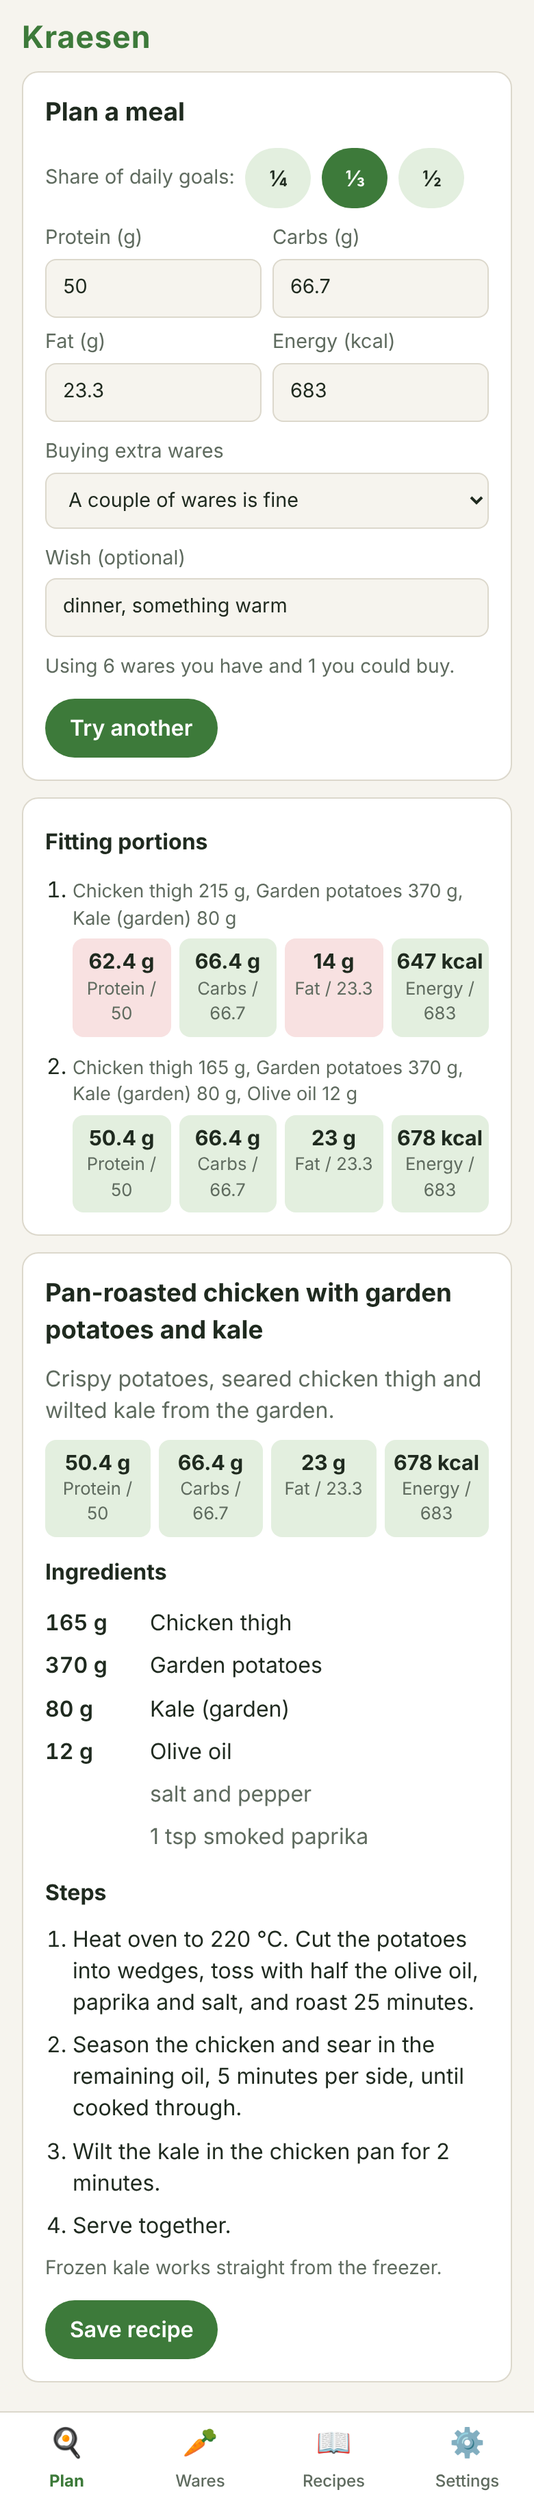
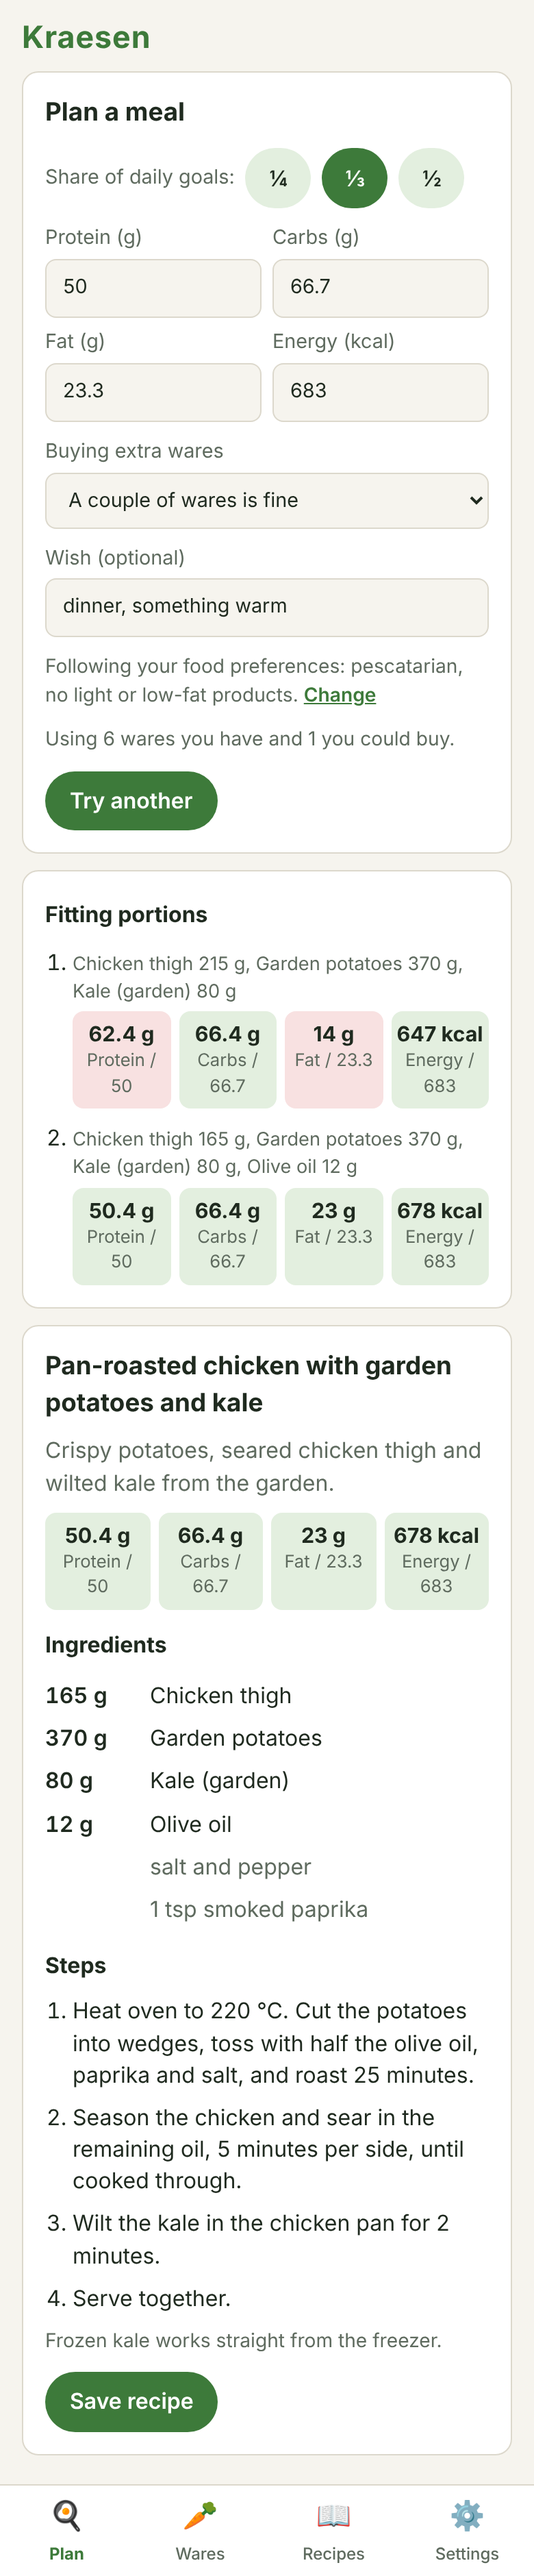
fix: address the food preferences review
- Plan shows the saved food preferences with a link to change them.
- Textareas resize only vertically, so the page never scrolls sideways.
- Settings maps a profile to its form in one place (formFrom).
- README mentions food preferences; shorter doc comment.
- Tests for trimmed and blank preferences, split in two.

Claude-Session: https://claude.ai/code/session_01NExJTuMKn94z8RMGD2mQMk

diff --git a/src/components/SettingsPage.tsx b/src/components/SettingsPage.tsx
@@ -1,7 +1,7 @@
 import { useRef, useState } from 'react'
 import { exportJson, importJson } from '../persist'
 import { useStore } from '../store'
-import { DEFAULT_MODEL, type Macros } from '../types'
+import { DEFAULT_MODEL, type Macros, type Profile } from '../types'
 import { MacroInputs } from './MacroInputs'
 
 const MODELS = [
@@ -9,13 +9,23 @@ const MODELS = [
   { id: 'claude-sonnet-5-5', label: 'Claude Sonnet 5.5 (cheaper)' },
 ]
 
+const DEFAULT_GOALS: Macros = { protein: 140, carbs: 220, fat: 70, kcal: 2100 }
+
+/** The profile form's fields for a stored profile, or the defaults when there is none. */
+const formFrom = (p: Profile | null) => ({
+  name: p?.name ?? '',
+  goals: p?.dailyGoals ?? DEFAULT_GOALS,
+  preferences: p?.foodPreferences ?? '',
+})
+
 export function SettingsPage() {
   const { state, update, replace } = useStore()
-  const [goals, setGoals] = useState<Macros>(
-    state.profile?.dailyGoals ?? { protein: 140, carbs: 220, fat: 70, kcal: 2100 },
-  )
-  const [name, setName] = useState(state.profile?.name ?? '')
-  const [preferences, setPreferences] = useState(state.profile?.foodPreferences ?? '')
+  const [form, setForm] = useState(() => formFrom(state.profile))
+  const { name, goals, preferences } = form
+  const setField = <K extends keyof typeof form>(k: K) => (v: (typeof form)[K]) => setForm((f) => ({ ...f, [k]: v }))
+  const setGoals = setField('goals')
+  const setName = setField('name')
+  const setPreferences = setField('preferences')
   const [apiKey, setApiKey] = useState(state.settings.apiKey)
   const [showKey, setShowKey] = useState(false)
   const [message, setMessage] = useState('')
@@ -45,9 +55,7 @@ export function SettingsPage() {
       const next = importJson(await file.text(), state)
       if (!confirm(`Replace all data on this device with ${next.wares.length} wares and ${next.recipes.length} recipes from the file?`)) return
       replace(next)
-      setGoals(next.profile?.dailyGoals ?? goals)
-      setName(next.profile?.name ?? '')
-      setPreferences(next.profile?.foodPreferences ?? '')
+      setForm(formFrom(next.profile))
       setMessage('Imported.')
     } catch (e) {
       setMessage(e instanceof Error ? e.message : 'Import failed.')

diff --git a/src/claude.test.ts b/src/claude.test.ts
@@ -144,13 +144,22 @@ describe('generateMeal', () => {
     expect(requests.length).toBeLessThanOrEqual(16)
   })
 
-  it('sends the food preferences with every request', async () => {
-    const { client, requests } = scripted([reply([{ type: 'tool_use', id: 'a', name: 'compute_portions', input: { ingredients: [{ ware_id: 'have1' }] } }]), reply([{ type: 'tool_use', id: 'b', name: 'submit_recipe', input: recipe('S1') }])])
-    await generateMeal(client, 'claude-opus-5-5', { ...req('some'), preferences: 'pescatarian' }, WARES, () => {})
-    expect(requests[0][0].content).toContain('Food preferences (always follow): pescatarian')
-    const plain = scripted([reply([{ type: 'tool_use', id: 'a', name: 'compute_portions', input: { ingredients: [{ ware_id: 'have1' }] } }]), reply([{ type: 'tool_use', id: 'b', name: 'submit_recipe', input: recipe('S1') }])])
-    await run(plain.client)
-    expect(plain.requests[0][0].content).not.toContain('Food preferences')
+  const firstPrompt = async (preferences: string) => {
+    const { client, requests } = scripted([
+      reply([{ type: 'tool_use', id: 'a', name: 'compute_portions', input: { ingredients: [{ ware_id: 'have1' }] } }]),
+      reply([{ type: 'tool_use', id: 'b', name: 'submit_recipe', input: recipe('S1') }]),
+    ])
+    await generateMeal(client, 'claude-opus-5-5', { ...req('some'), preferences }, WARES, () => {})
+    return requests[0][0].content as string
+  }
+
+  it('sends trimmed food preferences with the request', async () => {
+    expect(await firstPrompt('  pescatarian  ')).toContain('Food preferences (always follow): pescatarian\n')
+  })
+
+  it('leaves out empty or blank food preferences', async () => {
+    expect(await firstPrompt('')).not.toContain('Food preferences')
+    expect(await firstPrompt('   ')).not.toContain('Food preferences')
   })
 
   it('stops on a refusal', async () => {

diff --git a/src/components/MealPage.tsx b/src/components/MealPage.tsx
@@ -16,6 +16,7 @@ const scale = (m: Macros, f: number): Macros => Object.fromEntries(MACRO_KEYS.ma
 export function MealPage({ goToSettings, goToWares }: { goToSettings: () => void; goToWares: () => void }) {
   const { state, update } = useStore()
   const daily = state.profile?.dailyGoals
+  const preferences = state.profile?.foodPreferences.trim() ?? ''
   const [share, setShare] = useState(1 / 3)
   const [target, setTarget] = useState<Macros>(() => scale(daily ?? { protein: 0, carbs: 0, fat: 0, kcal: 0 }, 1 / 3))
   const [willingness, setWillingness] = useState<BuyWillingness>('some')
@@ -67,7 +68,7 @@ export function MealPage({ goToSettings, goToWares }: { goToSettings: () => void
       const r = await generateMeal(
         makeClient(state.settings.apiKey),
         state.settings.model,
-        { target, willingness, wish, preferences: state.profile?.foodPreferences ?? '' },
+        { target, willingness, wish, preferences },
         state.wares,
         (e) => setEvents((prev) => [...prev, e]),
         ac.signal,
@@ -107,6 +108,14 @@ export function MealPage({ goToSettings, goToWares }: { goToSettings: () => void
           <span>Wish (optional)</span>
           <input value={wish} onChange={(e) => setWish(e.target.value)} placeholder="e.g. something warm, quick lunch, no oven" />
         </label>
+        {preferences && (
+          <p className="hint">
+            Following your food preferences: {preferences.replace(/[.\s]+$/, '')}.{' '}
+            <button type="button" className="link" onClick={goToSettings}>
+              Change
+            </button>
+          </p>
+        )}
         <p className="hint">
           Using {haveCount} ware{haveCount === 1 ? '' : 's'} you have
           {willingness !== 'none' ? ` and ${buyCount} you could buy` : ''}.{' '}

diff --git a/src/types.ts b/src/types.ts
@@ -42,7 +42,7 @@ export interface Ware {
 export interface Profile {
   name: string
   dailyGoals: Macros
-  /** Free text sent with every meal request as a rule Claude must follow, e.g. "pescatarian, no sweeteners". */
+  /** Free text sent with every meal request; empty for none. */
   foodPreferences: string
 }
 

diff --git a/src/index.css b/src/index.css
@@ -106,6 +106,10 @@ label > span {
   color: var(--muted);
 }
 
+textarea {
+  resize: vertical;
+}
+
 input,
 select,
 textarea {

diff --git a/README.md b/README.md
@@ -10,8 +10,9 @@ and each user pastes their own Claude API key.
 
 ## Using it
 
-1. **Settings**: enter your daily goals (protein, carbs, fat, kcal) and paste a
-   Claude API key from console.anthropic.com. Export a JSON backup now and
+1. **Settings**: enter your daily goals (protein, carbs, fat, kcal), any food
+   preferences every meal must follow ("pescatarian, no sweeteners"), and
+   paste a Claude API key from console.anthropic.com. Export a JSON backup now and
    then; the key is never exported.
 2. **Wares**: add what you have. Home-grown produce is added by hand with its
    macros per 100 g. Packaged products can be scanned: the barcode is looked up
@@ -21,7 +22,7 @@ and each user pastes their own Claude API key.
    neither, and is marked available, frozen or out.
 3. **Plan**: pick a share of your daily goals (or type a target), say how
    willing you are to shop, optionally add a wish ("something warm"), and
-   generate. You see each portion fit Claude tries, then the recipe.
+   generate. Your food preferences always apply. You see each portion fit Claude tries, then the recipe.
 
 ## How meal planning works
 
